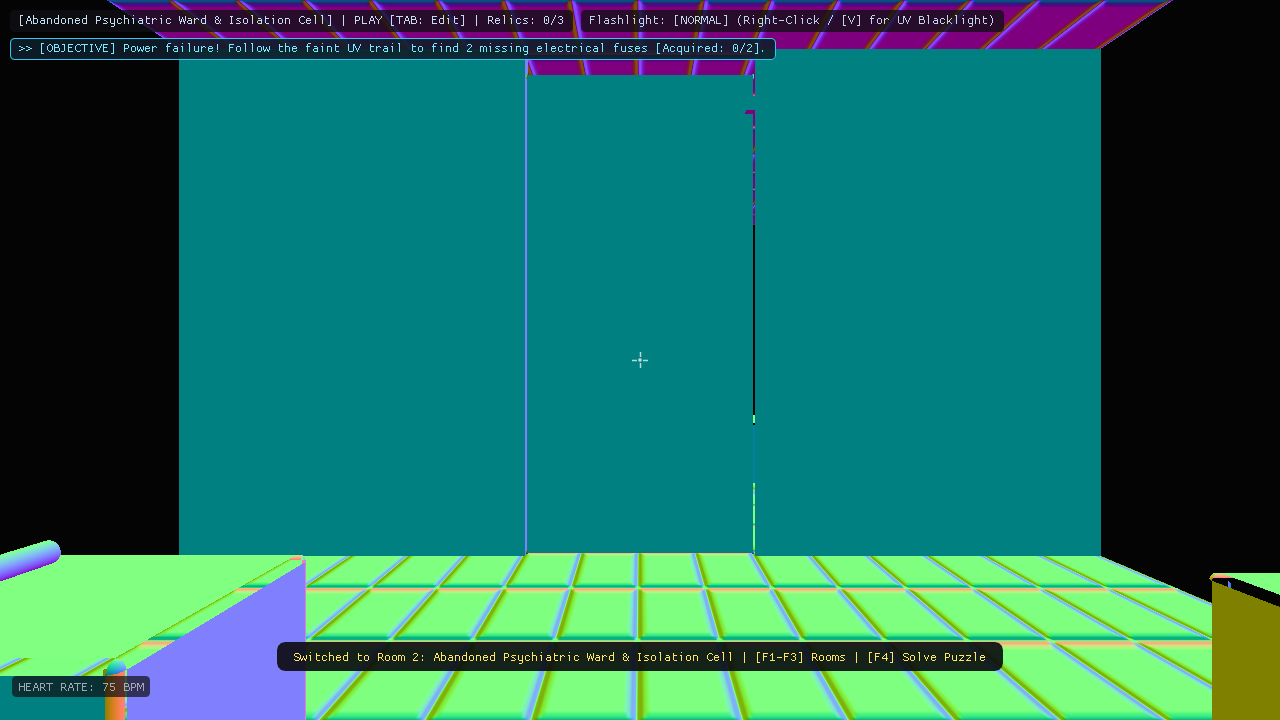
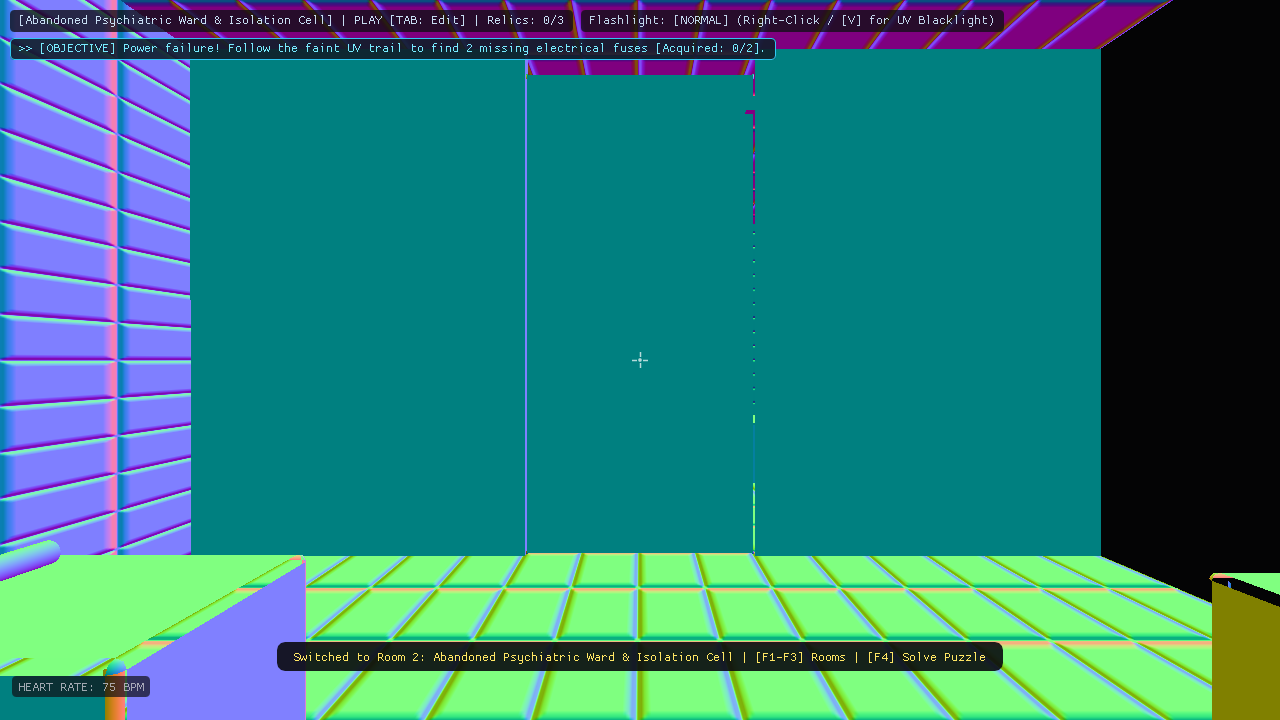
fix(step3): resolve mirror occlusion, align aspect ratio to viewport, and eliminate specular blowout in reflection pass

Changed region(s): [[0.0, 0.0, 0.1562, 0.7944]]

diff --git a/src/Core/Application.cpp b/src/Core/Application.cpp
@@ -178,7 +178,7 @@ bool Application::init(int width, int height, const std::string& title) {
     if (!ssaoPipeline.init(windowWidth, windowHeight)) {
         std::cerr << "[Warning] SsaoPipeline initialization failed.\n";
     }
-    if (!planarReflection.init(512)) {
+    if (!planarReflection.init(windowWidth, windowHeight)) {
         std::cerr << "[Warning] PlanarReflection initialization failed.\n";
     }
 
@@ -516,13 +516,15 @@ void Application::run() {
             glm::mat4 refView, refProj;
             glm::vec3 mirrorPos(0.0f, 2.4f, -7.82f);
             glm::vec3 mirrorNormal(0.0f, 0.0f, 1.0f);
-            planarReflection.computeReflectionMatrices(camera, mirrorPos, mirrorNormal, 1.0f, refView, refProj);
+            float aspect = (float)windowWidth / (float)windowHeight;
+            planarReflection.computeReflectionMatrices(camera, mirrorPos, mirrorNormal, aspect, refView, refProj);
+            glm::vec3 refCamPos = planarReflection.computeRefCamPos(camera, mirrorPos, mirrorNormal);
 
             planarReflection.beginRender();
             lightingShader.use();
             lightingShader.setMat4("projection", refProj);
             lightingShader.setMat4("view", refView);
-            lightingShader.setVec3("viewPos", camera.position);
+            lightingShader.setVec3("viewPos", refCamPos);
             lightingShader.setVec4("clipPlane", glm::vec4(mirrorNormal, -glm::dot(mirrorNormal, mirrorPos) + 0.02f));
             lightingShader.setBool("usePlanarReflection", false);
             lightingShader.setBool("isUvLightActive", interactionMgr.isUvLightActive);
@@ -530,9 +532,54 @@ void Application::run() {
             lightingShader.setFloat("ambientAO", guiLayer.ambientAO);
             lightingShader.setInt("debugViewMode", 0);
 
+            // Feed updated lighting uniforms to lightingShader for planar reflection pass
+            lightingShader.setVec3("ambientColor", ambientLight.color);
+            lightingShader.setFloat("ambientIntensity", ambientLight.intensity);
+
+            lightingShader.setBool("pointLight.enabled", pointLight.enabled);
+            lightingShader.setVec3("pointLight.position", pointLight.position);
+            lightingShader.setVec3("pointLight.color", pointLight.color);
+            lightingShader.setFloat("pointLight.intensity", pointLight.intensity);
+            lightingShader.setFloat("pointLight.constant", pointLight.constant);
+            lightingShader.setFloat("pointLight.linear", pointLight.linear);
+            lightingShader.setFloat("pointLight.quadratic", pointLight.quadratic);
+
+            lightingShader.setBool("spotLight.enabled", spotLight.enabled);
+            lightingShader.setVec3("spotLight.position", spotLight.position);
+            lightingShader.setVec3("spotLight.direction", spotLight.direction);
+            lightingShader.setVec3("spotLight.color", spotLight.color);
+            lightingShader.setFloat("spotLight.intensity", spotLight.intensity * 0.40f);
+            lightingShader.setFloat("spotLight.cutOff", spotLight.cutOff);
+            lightingShader.setFloat("spotLight.outerCutOff", spotLight.outerCutOff);
+            lightingShader.setFloat("spotLight.constant", spotLight.constant);
+            lightingShader.setFloat("spotLight.linear", spotLight.linear);
+            lightingShader.setFloat("spotLight.quadratic", spotLight.quadratic);
+
+            glActiveTexture(GL_TEXTURE6);
+            glBindTexture(GL_TEXTURE_CUBE_MAP, iblPipeline.getIrradianceMap());
+            lightingShader.setInt("irradianceMap", 6);
+            glActiveTexture(GL_TEXTURE7);
+            glBindTexture(GL_TEXTURE_CUBE_MAP, iblPipeline.getPrefilterMap());
+            lightingShader.setInt("prefilterMap", 7);
+            glActiveTexture(GL_TEXTURE8);
+            glBindTexture(GL_TEXTURE_2D, iblPipeline.getBrdfLUT());
+            lightingShader.setInt("brdfLUT", 8);
+
+            lightingShader.setBool("spotShadowEnabled", false);
+            lightingShader.setBool("pointShadowEnabled", false);
+
+            auto centerMirrorObj = sceneRoot ? sceneRoot->findById("center_mirror") : nullptr;
+            if (centerMirrorObj) centerMirrorObj->isVisible = false; // Never render mirror inside its own reflection!
+            auto mirrorFrameObj = sceneRoot ? sceneRoot->findById("mirror_frame") : nullptr;
+            if (mirrorFrameObj) mirrorFrameObj->isVisible = false; // Never block reflection camera with mirror frame slab!
+
             if (sceneRoot) {
                 sceneRoot->draw(lightingShader, "", "", RenderLayer::MirrorOnly);
             }
+
+            if (centerMirrorObj) centerMirrorObj->isVisible = true;
+            if (mirrorFrameObj) mirrorFrameObj->isVisible = true;
+
             planarReflection.endRender();
         }
         gpuProfiler.endPass(GpuPass::PlanarReflection);
@@ -860,6 +907,7 @@ void Application::onFramebufferSize(int width, int height) {
     glViewport(0, 0, width, height);
     postProcessor.resize(width, height);
     ssaoPipeline.resize(width, height);
+    planarReflection.resize(width, height);
 }
 
 void Application::onMouseMove(double xpos, double ypos) {
@@ -1195,16 +1243,19 @@ void Application::runBenchmarkAndCaptureScreenshots() {
         }
 
         if (currentRoomIndex == 2 && planarReflection.enabled) {
+            GLStateGuard refGuard;
             glm::mat4 refView, refProj;
             glm::vec3 mirrorPos(0.0f, 2.4f, -7.82f);
             glm::vec3 mirrorNormal(0.0f, 0.0f, 1.0f);
-            planarReflection.computeReflectionMatrices(camera, mirrorPos, mirrorNormal, 1.0f, refView, refProj);
+            float aspect = (float)windowWidth / (float)windowHeight;
+            planarReflection.computeReflectionMatrices(camera, mirrorPos, mirrorNormal, aspect, refView, refProj);
+            glm::vec3 refCamPos = planarReflection.computeRefCamPos(camera, mirrorPos, mirrorNormal);
 
             planarReflection.beginRender();
             lightingShader.use();
             lightingShader.setMat4("projection", refProj);
             lightingShader.setMat4("view", refView);
-            lightingShader.setVec3("viewPos", camera.position);
+            lightingShader.setVec3("viewPos", refCamPos);
             lightingShader.setVec4("clipPlane", glm::vec4(mirrorNormal, -glm::dot(mirrorNormal, mirrorPos) + 0.02f));
             lightingShader.setBool("usePlanarReflection", false);
             lightingShader.setBool("isUvLightActive", interactionMgr.isUvLightActive);
@@ -1212,9 +1263,54 @@ void Application::runBenchmarkAndCaptureScreenshots() {
             lightingShader.setFloat("ambientAO", guiLayer.ambientAO);
             lightingShader.setInt("debugViewMode", 0);
 
+            // Lighting setup for reflection pass
+            lightingShader.setVec3("ambientColor", ambientLight.color);
+            lightingShader.setFloat("ambientIntensity", ambientLight.intensity);
+
+            lightingShader.setBool("pointLight.enabled", pointLight.enabled);
+            lightingShader.setVec3("pointLight.position", pointLight.position);
+            lightingShader.setVec3("pointLight.color", pointLight.color);
+            lightingShader.setFloat("pointLight.intensity", pointLight.intensity);
+            lightingShader.setFloat("pointLight.constant", pointLight.constant);
+            lightingShader.setFloat("pointLight.linear", pointLight.linear);
+            lightingShader.setFloat("pointLight.quadratic", pointLight.quadratic);
+
+            lightingShader.setBool("spotLight.enabled", spotLight.enabled);
+            lightingShader.setVec3("spotLight.position", spotLight.position);
+            lightingShader.setVec3("spotLight.direction", spotLight.direction);
+            lightingShader.setVec3("spotLight.color", spotLight.color);
+            lightingShader.setFloat("spotLight.intensity", spotLight.intensity * 0.40f);
+            lightingShader.setFloat("spotLight.cutOff", spotLight.cutOff);
+            lightingShader.setFloat("spotLight.outerCutOff", spotLight.outerCutOff);
+            lightingShader.setFloat("spotLight.constant", spotLight.constant);
+            lightingShader.setFloat("spotLight.linear", spotLight.linear);
+            lightingShader.setFloat("spotLight.quadratic", spotLight.quadratic);
+
+            glActiveTexture(GL_TEXTURE6);
+            glBindTexture(GL_TEXTURE_CUBE_MAP, iblPipeline.getIrradianceMap());
+            lightingShader.setInt("irradianceMap", 6);
+            glActiveTexture(GL_TEXTURE7);
+            glBindTexture(GL_TEXTURE_CUBE_MAP, iblPipeline.getPrefilterMap());
+            lightingShader.setInt("prefilterMap", 7);
+            glActiveTexture(GL_TEXTURE8);
+            glBindTexture(GL_TEXTURE_2D, iblPipeline.getBrdfLUT());
+            lightingShader.setInt("brdfLUT", 8);
+
+            lightingShader.setBool("spotShadowEnabled", false);
+            lightingShader.setBool("pointShadowEnabled", false);
+
+            auto centerMirrorObj = sceneRoot ? sceneRoot->findById("center_mirror") : nullptr;
+            if (centerMirrorObj) centerMirrorObj->isVisible = false;
+            auto mirrorFrameObj = sceneRoot ? sceneRoot->findById("mirror_frame") : nullptr;
+            if (mirrorFrameObj) mirrorFrameObj->isVisible = false;
+
             if (sceneRoot) {
                 sceneRoot->draw(lightingShader, "", "", RenderLayer::MirrorOnly);
             }
+
+            if (centerMirrorObj) centerMirrorObj->isVisible = true;
+            if (mirrorFrameObj) mirrorFrameObj->isVisible = true;
+
             planarReflection.endRender();
         }
 

diff --git a/src/renderer/PlanarReflection.cpp b/src/renderer/PlanarReflection.cpp
@@ -9,15 +9,17 @@ PlanarReflection::~PlanarReflection() {
     cleanup();
 }
 
-bool PlanarReflection::init(int res) {
-    resolution = res;
+bool PlanarReflection::init(int w, int h) {
+    texWidth = (w > 0) ? w : 1280;
+    texHeight = (h > 0) ? h : 720;
     setupFBO();
     return (fbo != 0);
 }
 
-void PlanarReflection::resize(int res) {
-    if (res <= 0 || res == resolution) return;
-    resolution = res;
+void PlanarReflection::resize(int w, int h) {
+    if (w <= 0 || h <= 0 || (w == texWidth && h == texHeight)) return;
+    texWidth = w;
+    texHeight = h;
     cleanup();
     setupFBO();
 }
@@ -37,10 +39,10 @@ void PlanarReflection::setupFBO() {
     glGenFramebuffers(1, &fbo);
     glBindFramebuffer(GL_FRAMEBUFFER, fbo);
 
-    // Color texture (RGBA16F HDR)
+    // Color texture (RGBA16F HDR) matching screen aspect ratio
     glGenTextures(1, &reflectionTexture);
     glBindTexture(GL_TEXTURE_2D, reflectionTexture);
-    glTexImage2D(GL_TEXTURE_2D, 0, GL_RGBA16F, resolution, resolution, 0, GL_RGBA, GL_FLOAT, nullptr);
+    glTexImage2D(GL_TEXTURE_2D, 0, GL_RGBA16F, texWidth, texHeight, 0, GL_RGBA, GL_FLOAT, nullptr);
     glTexParameteri(GL_TEXTURE_2D, GL_TEXTURE_MIN_FILTER, GL_LINEAR);
     glTexParameteri(GL_TEXTURE_2D, GL_TEXTURE_MAG_FILTER, GL_LINEAR);
     glTexParameteri(GL_TEXTURE_2D, GL_TEXTURE_WRAP_S, GL_CLAMP_TO_EDGE);
@@ -50,7 +52,7 @@ void PlanarReflection::setupFBO() {
     // Depth Renderbuffer
     glGenRenderbuffers(1, &depthRbo);
     glBindRenderbuffer(GL_RENDERBUFFER, depthRbo);
-    glRenderbufferStorage(GL_RENDERBUFFER, GL_DEPTH_COMPONENT24, resolution, resolution);
+    glRenderbufferStorage(GL_RENDERBUFFER, GL_DEPTH_COMPONENT24, texWidth, texHeight);
     glFramebufferRenderbuffer(GL_FRAMEBUFFER, GL_DEPTH_ATTACHMENT, GL_RENDERBUFFER, depthRbo);
 
     if (glCheckFramebufferStatus(GL_FRAMEBUFFER) != GL_FRAMEBUFFER_COMPLETE) {
@@ -60,16 +62,12 @@ void PlanarReflection::setupFBO() {
     glBindFramebuffer(GL_FRAMEBUFFER, 0);
 }
 
-void PlanarReflection::computeReflectionMatrices(const Camera& mainCamera,
-                                               const glm::vec3& planePos,
-                                               const glm::vec3& planeNormal,
-                                               float aspect,
-                                               glm::mat4& outView,
-                                               glm::mat4& outProj) {
+glm::vec3 PlanarReflection::computeRefCamPos(const Camera& mainCamera,
+                                           const glm::vec3& planePos,
+                                           const glm::vec3& planeNormal) {
     glm::vec3 n = glm::normalize(planeNormal);
     float d = -glm::dot(n, planePos);
 
-    // Reflection matrix for positions
     glm::mat4 R(1.0f);
     R[0][0] = 1.0f - 2.0f * n.x * n.x;
     R[0][1] = -2.0f * n.x * n.y;
@@ -92,41 +90,30 @@ void PlanarReflection::computeReflectionMatrices(const Camera& mainCamera,
     R[3][3] = 1.0f;
 
     glm::vec4 refCamPos4 = R * glm::vec4(mainCamera.position, 1.0f);
-    glm::vec3 refCamPos = glm::vec3(refCamPos4) / refCamPos4.w;
+    return glm::vec3(refCamPos4) / refCamPos4.w;
+}
+
+void PlanarReflection::computeReflectionMatrices(const Camera& mainCamera,
+                                               const glm::vec3& planePos,
+                                               const glm::vec3& planeNormal,
+                                               float aspect,
+                                               glm::mat4& outView,
+                                               glm::mat4& outProj) {
+    glm::vec3 n = glm::normalize(planeNormal);
+    glm::vec3 refCamPos = computeRefCamPos(mainCamera, planePos, planeNormal);
 
     glm::vec3 refCamFront = glm::reflect(mainCamera.front, n);
     glm::vec3 refCamUp = glm::reflect(mainCamera.up, n);
 
     outView = glm::lookAt(refCamPos, refCamPos + refCamFront, refCamUp);
     outProj = mainCamera.getProjectionMatrix(aspect);
-
-    // Oblique Near-Plane Projection Matrix (Lengyel method)
-    // Add small bias (0.05m) to clip plane distance d to eliminate Z-fighting and near-plane precision flickering
-    float clipPlaneBias = 0.05f;
-    glm::vec4 clipPlane = glm::vec4(n, d + clipPlaneBias);
-    glm::vec4 viewSpacePlane = glm::transpose(glm::inverse(outView)) * clipPlane;
-    if (viewSpacePlane.w > 0.0f) {
-        viewSpacePlane = -viewSpacePlane;
-    }
-
-    glm::vec4 q;
-    q.x = (glm::sign(viewSpacePlane.x) + outProj[2][0]) / outProj[0][0];
-    q.y = (glm::sign(viewSpacePlane.y) + outProj[2][1]) / outProj[1][1];
-    q.z = -1.0f;
-    q.w = (1.0f + outProj[2][2]) / outProj[3][2];
-
-    glm::vec4 c = viewSpacePlane * (2.0f / glm::dot(viewSpacePlane, q));
-    outProj[0][2] = c.x;
-    outProj[1][2] = c.y;
-    outProj[2][2] = c.z + 1.0f;
-    outProj[3][2] = c.w;
 }
 
 void PlanarReflection::beginRender() {
     stateGuard = std::make_unique<GLStateGuard>();
 
     glBindFramebuffer(GL_FRAMEBUFFER, fbo);
-    glViewport(0, 0, resolution, resolution);
+    glViewport(0, 0, texWidth, texHeight);
     glClearColor(0.04f, 0.03f, 0.06f, 1.0f);
     glClear(GL_COLOR_BUFFER_BIT | GL_DEPTH_BUFFER_BIT);
     glEnable(GL_DEPTH_TEST);

diff --git a/src/renderer/PlanarReflection.hpp b/src/renderer/PlanarReflection.hpp
@@ -13,8 +13,8 @@ public:
     PlanarReflection();
     ~PlanarReflection();
 
-    bool init(int resolution = 512);
-    void resize(int resolution);
+    bool init(int width = 1280, int height = 720);
+    void resize(int width, int height);
     void cleanup();
 
     void computeReflectionMatrices(const Camera& mainCamera,
@@ -24,16 +24,22 @@ public:
                                    glm::mat4& outView,
                                    glm::mat4& outProj);
 
+    glm::vec3 computeRefCamPos(const Camera& mainCamera,
+                               const glm::vec3& planePos,
+                               const glm::vec3& planeNormal);
+
     void beginRender();
     void endRender();
 
     unsigned int getReflectionTexture() const { return reflectionTexture; }
-    int getResolution() const { return resolution; }
+    int getWidth() const { return texWidth; }
+    int getHeight() const { return texHeight; }
 
     bool enabled = true;
 
 private:
-    int resolution = 512;
+    int texWidth = 1280;
+    int texHeight = 720;
     unsigned int fbo = 0;
     unsigned int reflectionTexture = 0;
     unsigned int depthRbo = 0;
